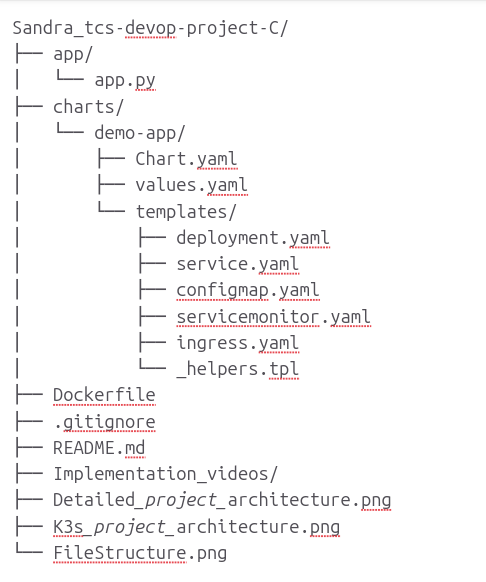
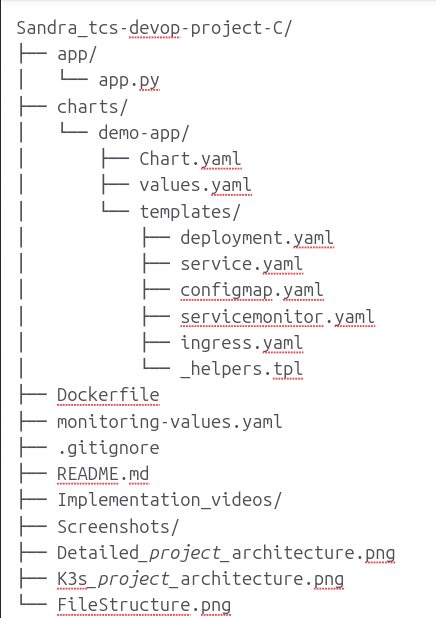
Integrating docker hub

Changed region(s): [[0.0, 0.0309, 0.8647, 1.0], [0.8349, 0.866, 0.9243, 0.9278], [0.6261, 0.0309, 0.6858, 0.0619]]

diff --git a/README.md b/README.md
@@ -224,37 +224,6 @@ d) Apply the changes
 cd ~/Sandra_tcs-devop-project-C
 helm upgrade demo-app ./charts/demo-app
 
-**CHALLENGES ENCOUNTERED**
-
-Port is already allocated
-Solution: I used port 8085 since port 8080 is currently being used by Jenkins.
-
-Error calling include
-Solution: I created _helpers.tpl to store reusable template functions and naming rules.
-
-Helm reported "Install complete" but no pods or services were created
-Finding: The templates folder was misspelled "template" instead of "templates".
-Solution: mv template templates, then re-ran helm upgrade.
-
-ErrImageNeverPull - pod stuck, image not found
-Finding: values.yaml requested image tag "latest", but only "v1.0" existed in
-k3s's containerd store.
-Solution: Updating values.yaml to reference the tag that actually existed.
-
-Tag mismatch between Docker and containerd (v1.0 vs v.1.0)
-Finding: Docker's local image store had the image tagged "v.1.0" (with a dot),
-while containerd's k8s.io namespace had it imported as "v1.0" (no dot) 
-Solution: Standardized on "v.1.0" across values.yaml, the Docker build
-command, and the containerd import command.
-
-git push rejected - divergent branches
-Finding: I edited the readme file using GUI, commited the changes and forgot to pull the repo when working on the project. Thus the remote repo had commits not present locally. 
-Solution:
-  git config pull.rebase false
-  git pull
-  git push
-**PENDING**
-
 **STEP 16: MONITORING**
 *I created a separate namespace for monitoring* - to enable isolation and avoid cluttering the defaults namespace where the app is.
 
@@ -314,7 +283,77 @@ localhost:3001
 
 c) Connections > Data source > Build a dashboard
 
+
+**STEP 19: PUSH IMAGE TO DOCKER HUB**
+
+The app image is pushed to Docker Hub (public registry) instead of being
+imported directly into k3s's local containerd store.
+
+*CI/CD pattern: build → push to cloud registry → cluster pulls the image
+over the network, rather than relying on local-only images.*
+
+a)Login to docker hub via terminal
+docker login
+
+b) Create a repository on Docker Hub
+
+c) Tag existing image with docker hub username
+docker tag demo-app:v.1.0 sandrakinya/demo-app:v.1.0
+
+d) Push image to docker hub
+docker push sandrakinya/demo-app:v.1.0
+
+e) Update values.yaml to pull from docker hub instead of local import
+image:
+  repository: sandrakinya/demo-app
+  tag: v.1.0
+  pullPolicy: IfNotPresent
+*IfNotPresent means pull from the registry (Docker Hub) if it's not already cached locally.*
+
+f) Apply change
+helm upgrade demo-app ./charts/demo-app
+
+g) Delete previous pod - to use a fresh pod which pulls from Docker Hub
+
+h) Verify
+kubectl get pods
+kubectl describe pod 
+
+kubectl get svc -n default*Any changes on app.py hence forth will require: docker build - docker push - kubectl delete pod.*
+
+
 **CHALLENGES ENCOUNTERED**
+
+
+Port is already allocated
+Solution: I used port 8085 since port 8080 is currently being used by Jenkins.
+
+Error calling include
+Solution: I created _helpers.tpl to store reusable template functions and naming rules.
+
+Helm reported "Install complete" but no pods or services were created
+Finding: The templates folder was misspelled "template" instead of "templates".
+Solution: mv template templates, then re-ran helm upgrade.
+
+ErrImageNeverPull - pod stuck, image not found
+Finding: values.yaml requested image tag "latest", but only "v1.0" existed in
+k3s's containerd store.
+Solution: Updating values.yaml to reference the tag that actually existed.
+
+Tag mismatch between Docker and containerd (v1.0 vs v.1.0)
+Finding: Docker's local image store had the image tagged "v.1.0" (with a dot),
+while containerd's k8s.io namespace had it imported as "v1.0" (no dot)
+Solution: Standardized on "v.1.0" across values.yaml, the Docker build
+command, and the containerd import command.
+
+git push rejected - divergent branches
+Finding: I edited the readme file using GUI, commited the changes and forgot to pull the repo when working on the project. Thus the remote repo had commits not present locally.
+Solution:
+  git config pull.rebase false
+  git pull
+  git push
+
+
 Grafana - Unable to listen on port 3000: Listeners failed to create with the following errors: [unable to create listener: Error listen tcp4 127.0.0.1:3000: bind: address already in use unable to create listener: Error listen tcp6 [::1]:3000: bind: address already in use]
 error: unable to listen on any of the requested ports: [{3000 3000}]
 Finding: sudo ss -tulpn | grep 3000 : Docker is running on that port
@@ -324,3 +363,8 @@ Prometheus -
 Unable to listen on port 9090: Listeners failed to create with the following errors: [unable to create listener: Error listen tcp4 127.0.0.1:9090: bind: address already in use unable to create listener: Error listen tcp6 [::1]:9090: bind: address already in use]
 error: unable to listen on any of the requested ports: [{9090 9090}]
 Solution: kubectl port-forward svc/monitoring-kube-prometheus-prometheus -n monitoring 9091:9090
+
+failed to resolve reference "SandraKinya/demo-app:v.1.0": failed to do request: 
+Head https://SandraKinya/v2/demo-app/manifests/v.1.0": dial tcp: lookup SandraKinya
+Finding: Docker image references must be entirely lowercase — capital letters aren't valid in image names/tags.
+Solution: Re-tag and push image with lowercase name
